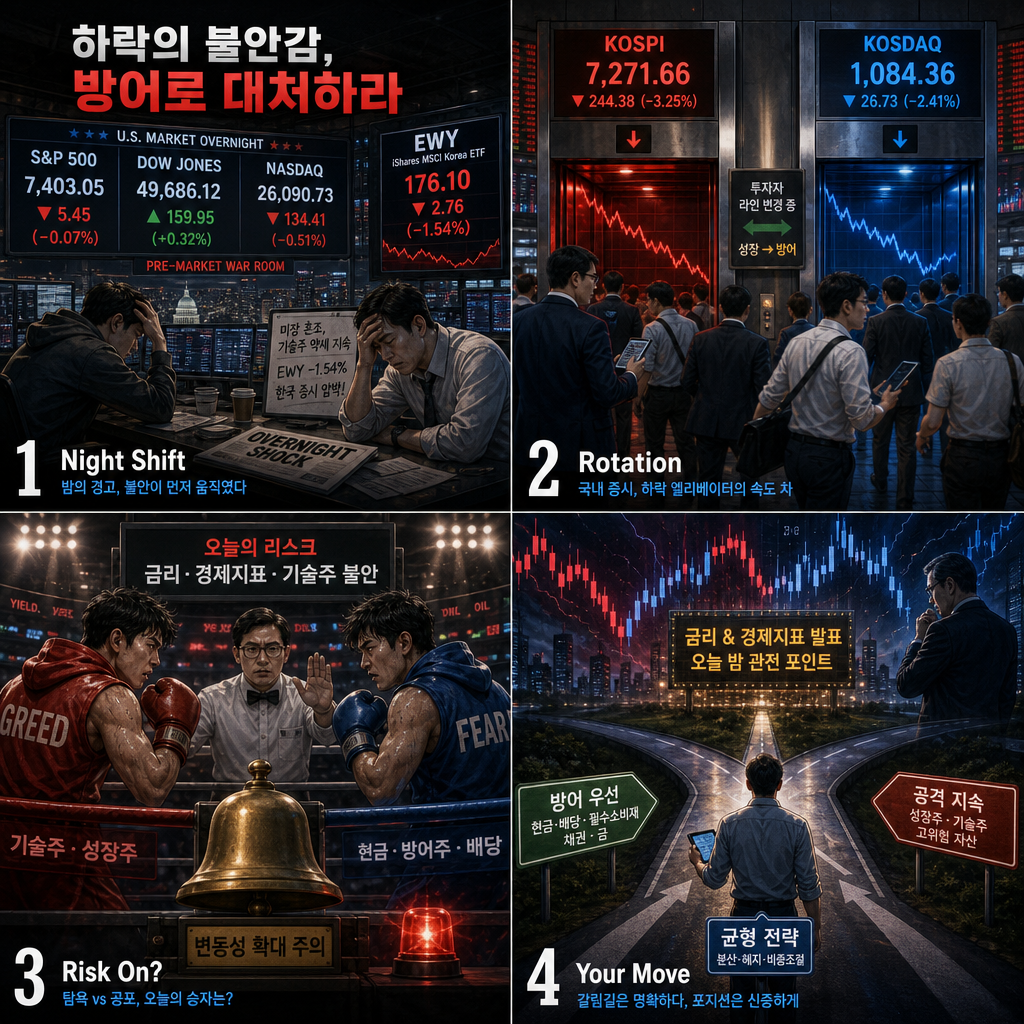
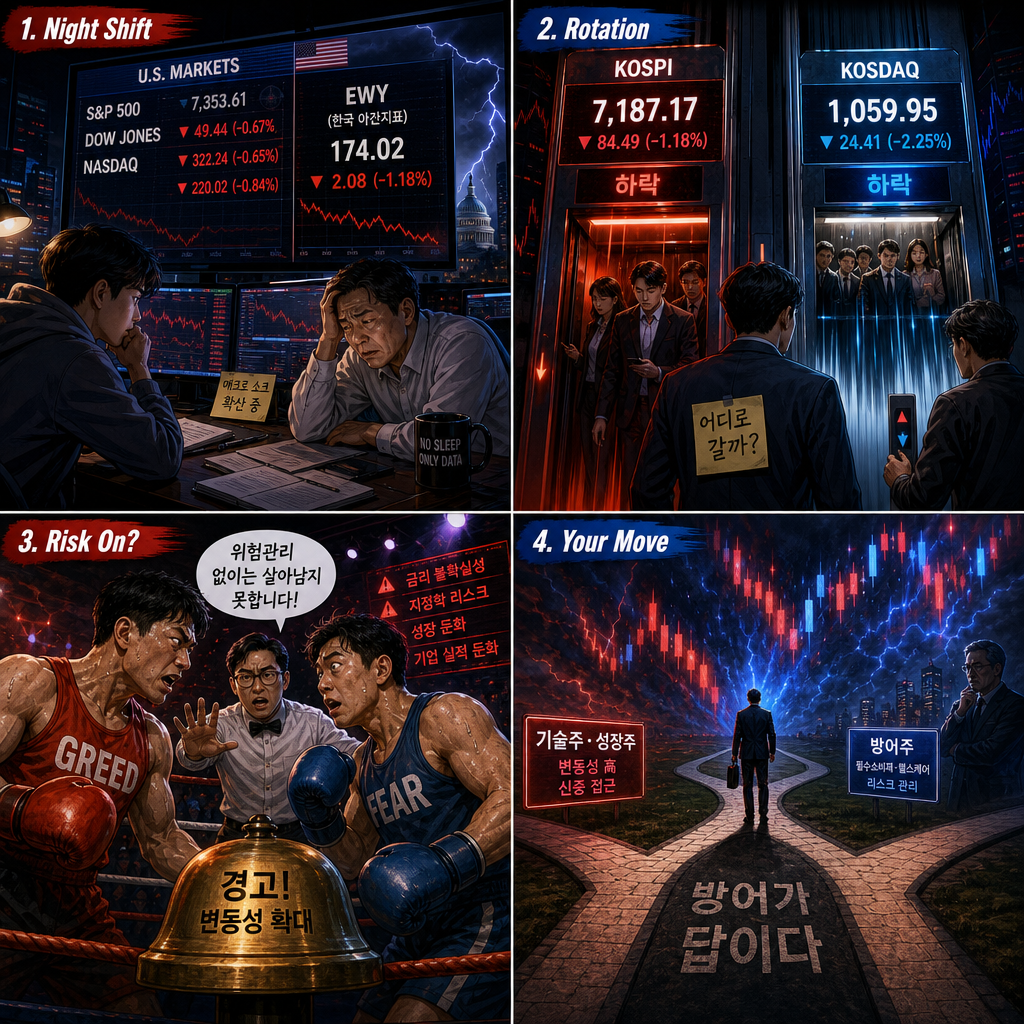
deploy: efe6f696ff8e59adfba2088b25f8cae922e5229a

diff --git a/index.html b/index.html
@@ -663,12 +663,12 @@
             <div class="hero-layout">
                 <div class="hero-copy">
                     <div class="hero-kicker">Seoul and Wall Street pulse, reframed as a daily cover story</div>
-                    <h1 class="header-title">Evening Briefing: 오늘 국장 실시간 & 미장 프리뷰</h1>
-                    <p class="header-subtitle">마지막 업데이트: 2026-05-19 17:16:07</p>
+                    <h1 class="header-title">Morning Briefing: 간밤의 미장 & 국장 프리뷰</h1>
+                    <p class="header-subtitle">마지막 업데이트: 2026-05-20 10:21:12</p>
                 </div>
                 <div class="hero-stamp">
                     <div class="hero-stamp-label">Edition Focus</div>
-                    <div class="hero-stamp-value">하락의 불안감, 방어로 대처하라</div>
+                    <div class="hero-stamp-value">하락의 연쇄, 방어가 답이다</div>
                 </div>
             </div>
         </section>
@@ -677,33 +677,33 @@
         <section class="market-grid">
             <div class="index-card">
                 <div class="index-title">KOSPI</div>
-                <div class="index-value">7,271.66</div>
-                <div class="index-badge" style="color: #3b82f6; background-color: #3b82f615;">▼ 244.38 (-3.25%)</div>
+                <div class="index-value">7,187.17</div>
+                <div class="index-badge" style="color: #3b82f6; background-color: #3b82f615;">▼ 84.49 (-1.16%)</div>
             </div>
             <div class="index-card">
                 <div class="index-title">KOSDAQ</div>
-                <div class="index-value">1,084.36</div>
-                <div class="index-badge" style="color: #3b82f6; background-color: #3b82f615;">▼ 26.73 (-2.41%)</div>
+                <div class="index-value">1,059.95</div>
+                <div class="index-badge" style="color: #3b82f6; background-color: #3b82f615;">▼ 24.41 (-2.25%)</div>
             </div>
             <div class="index-card">
                 <div class="index-title">EWY (한국ETF)</div>
-                <div class="index-value">176.10</div>
-                <div class="index-badge" style="color: #3b82f6; background-color: #3b82f615;">▼ 2.76 (-1.54%)</div>
+                <div class="index-value">174.02</div>
+                <div class="index-badge" style="color: #3b82f6; background-color: #3b82f615;">▼ 2.08 (-1.18%)</div>
             </div>
             <div class="index-card">
                 <div class="index-title">S&P 500</div>
-                <div class="index-value">7,403.05</div>
-                <div class="index-badge" style="color: #3b82f6; background-color: #3b82f615;">▼ 5.45 (-0.07%)</div>
+                <div class="index-value">7,353.61</div>
+                <div class="index-badge" style="color: #3b82f6; background-color: #3b82f615;">▼ 49.44 (-0.67%)</div>
             </div>
             <div class="index-card">
                 <div class="index-title">DOW JONES</div>
-                <div class="index-value">49,686.12</div>
-                <div class="index-badge" style="color: #ef4444; background-color: #ef444415;">▲ 159.95 (+0.32%)</div>
+                <div class="index-value">49,363.88</div>
+                <div class="index-badge" style="color: #3b82f6; background-color: #3b82f615;">▼ 322.24 (-0.65%)</div>
             </div>
             <div class="index-card">
                 <div class="index-title">NASDAQ</div>
-                <div class="index-value">26,090.73</div>
-                <div class="index-badge" style="color: #3b82f6; background-color: #3b82f615;">▼ 134.41 (-0.51%)</div>
+                <div class="index-value">25,870.71</div>
+                <div class="index-badge" style="color: #3b82f6; background-color: #3b82f615;">▼ 220.02 (-0.84%)</div>
             </div>
         </section>
 
@@ -720,31 +720,7 @@
                 
                 <article class="news-item">
                     
-                    <img src="https://imgnews.pstatic.net/image/001/2026/05/19/PYH2026051901760001300_P4_20260519101115918.jpg?type=w800" alt="코스피, 하락 출발해 7,300선에서 등락(종합)" class="news-thumb">
-                    
-                    <div class="news-body">
-                        <div class="news-meta">
-                            
-                            <span class="news-scope">Korea</span>
-                            
-                            
-                            <span>연합뉴스</span>
-                            
-                            
-                            <span>2026-05-19 10:02:22</span>
-                            
-                        </div>
-                        <a href="https://n.news.naver.com/mnews/article/001/0016085107" target="_blank" rel="noopener noreferrer" class="news-title">코스피, 하락 출발해 7,300선에서 등락(종합)</a>
-                        
-                        <div class="news-why">미국 국채금리 부담이 한국 시장에 미치는 영향을 보여줍니다.</div>
-                        
-                        <a href="https://n.news.naver.com/mnews/article/001/0016085107" target="_blank" rel="noopener noreferrer" class="news-link">원문 보기</a>
-                    </div>
-                </article>
-                
-                <article class="news-item">
-                    
-                    <img src="https://imgnews.pstatic.net/image/018/2026/05/19/0006284925_001_20260519095309521.jpg?type=w800" alt="코스피, 외인·기관 팔자에 1%대 하락…코스닥은 상승" class="news-thumb">
+                    <img src="https://imgnews.pstatic.net/image/648/2026/05/20/0000047306_001_20260520100217178.jpg?type=w800" alt="&#39;매크로 부담&#39; 속 계속 파는 외국인...코스피, 7000선 위협" class="news-thumb">
                     
                     <div class="news-body">
                         <div class="news-meta">
@@ -752,47 +728,47 @@
                             <span class="news-scope">Macro | Korea</span>
                             
                             
-                            <span>이데일리</span>
+                            <span>비즈워치</span>
                             
                             
-                            <span>2026-05-19 09:53:09</span>
+                            <span>2026-05-20 10:02:17</span>
                             
                         </div>
-                        <a href="https://n.news.naver.com/mnews/article/018/0006284925" target="_blank" rel="noopener noreferrer" class="news-title">코스피, 외인·기관 팔자에 1%대 하락…코스닥은 상승</a>
+                        <a href="https://n.news.naver.com/mnews/article/648/0000047306" target="_blank" rel="noopener noreferrer" class="news-title">'매크로 부담' 속 계속 파는 외국인...코스피, 7000선 위협</a>
                         
-                        <div class="news-why">지정학적 불안과 고유가 우려가 시장에 미치는 영향을 강조합니다.</div>
+                        <div class="news-why">외국인의 대규모 순매도가 코스피 하락을 주도하고 있어 시장의 방향성을 결정짓는 중요한 요소로 작용하고 있다.</div>
                         
-                        <a href="https://n.news.naver.com/mnews/article/018/0006284925" target="_blank" rel="noopener noreferrer" class="news-link">원문 보기</a>
+                        <a href="https://n.news.naver.com/mnews/article/648/0000047306" target="_blank" rel="noopener noreferrer" class="news-link">원문 보기</a>
                     </div>
                 </article>
                 
                 <article class="news-item">
                     
-                    <img src="https://imgnews.pstatic.net/image/016/2026/05/19/0002645216_001_20260519094916103.jpg?type=w800" alt="삼전·하닉 장초반 약세…뉴욕發 메모리 ‘피크아웃’ 논란에 발목 [종목Pick]" class="news-thumb">
+                    <img src="https://imgnews.pstatic.net/image/016/2026/05/20/0002645782_001_20260520095113403.jpg?type=w800" alt="코스피, 외국인 9000억 순매도에 7200선 밀려…장중 7000선 위협 [투자360]" class="news-thumb">
                     
                     <div class="news-body">
                         <div class="news-meta">
                             
-                            <span class="news-scope">Korea | Sector</span>
+                            <span class="news-scope">Macro | Korea | Sector</span>
                             
                             
                             <span>헤럴드경제</span>
                             
                             
-                            <span>2026-05-19 09:49:16</span>
+                            <span>2026-05-20 09:51:13</span>
                             
                         </div>
-                        <a href="https://n.news.naver.com/mnews/article/016/0002645216" target="_blank" rel="noopener noreferrer" class="news-title">삼전·하닉 장초반 약세…뉴욕發 메모리 ‘피크아웃’ 논란에 발목 [종목Pick]</a>
+                        <a href="https://n.news.naver.com/mnews/article/016/0002645782" target="_blank" rel="noopener noreferrer" class="news-title">코스피, 외국인 9000억 순매도에 7200선 밀려…장중 7000선 위협 [투자360]</a>
                         
-                        <div class="news-why">반도체 업황에 대한 우려가 한국 대형주에 미치는 영향을 보여줍니다.</div>
+                        <div class="news-why">미국 금리 상승과 외국인 매도세가 한국 시장에 미치는 영향이 크기 때문에 주목할 필요가 있다.</div>
                         
-                        <a href="https://n.news.naver.com/mnews/article/016/0002645216" target="_blank" rel="noopener noreferrer" class="news-link">원문 보기</a>
+                        <a href="https://n.news.naver.com/mnews/article/016/0002645782" target="_blank" rel="noopener noreferrer" class="news-link">원문 보기</a>
                     </div>
                 </article>
                 
                 <article class="news-item">
                     
-                    <img src="https://imgnews.pstatic.net/image/243/2026/05/19/0000098001_001_20260519094813645.jpg?type=w800" alt="일촉즉발 피했다…&#39;19일 공격 보류&#39; 트럼프 발언에 뉴욕 증시 혼조" class="news-thumb">
+                    <img src="https://imgnews.pstatic.net/image/023/2026/05/20/0003977425_001_20260520093908346.jpg?type=w800" alt="“현금 바닥나고 고금리 엄습”… 월가에서 터져 나오는 증시 ‘조정·매도’ 경고" class="news-thumb">
                     
                     <div class="news-body">
                         <div class="news-meta">
@@ -800,17 +776,41 @@
                             <span class="news-scope">Macro | US | Korea</span>
                             
                             
-                            <span>이코노미스트</span>
+                            <span>조선일보</span>
                             
                             
-                            <span>2026-05-19 09:48:13</span>
+                            <span>2026-05-20 09:39:08</span>
                             
                         </div>
-                        <a href="https://n.news.naver.com/mnews/article/243/0000098001" target="_blank" rel="noopener noreferrer" class="news-title">일촉즉발 피했다…'19일 공격 보류' 트럼프 발언에 뉴욕 증시 혼조</a>
+                        <a href="https://n.news.naver.com/mnews/article/023/0003977425" target="_blank" rel="noopener noreferrer" class="news-title">“현금 바닥나고 고금리 엄습”… 월가에서 터져 나오는 증시 ‘조정·매도’ 경고</a>
                         
-                        <div class="news-why">미국의 외교 정책 변화가 글로벌 시장에 미치는 영향을 나타냅니다.</div>
+                        <div class="news-why">글로벌 증시 조정 신호가 한국 시장에도 영향을 미칠 가능성이 높아 투자자들이 주의해야 한다.</div>
                         
-                        <a href="https://n.news.naver.com/mnews/article/243/0000098001" target="_blank" rel="noopener noreferrer" class="news-link">원문 보기</a>
+                        <a href="https://n.news.naver.com/mnews/article/023/0003977425" target="_blank" rel="noopener noreferrer" class="news-link">원문 보기</a>
+                    </div>
+                </article>
+                
+                <article class="news-item">
+                    
+                    <img src="https://imgnews.pstatic.net/image/001/2026/05/20/PYH2026052003120001300_P4_20260520101413006.jpg?type=w800" alt="코스피 변동성 지속…1%대 하락 7,100선 등락(종합)" class="news-thumb">
+                    
+                    <div class="news-body">
+                        <div class="news-meta">
+                            
+                            <span class="news-scope">Macro | Korea</span>
+                            
+                            
+                            <span>연합뉴스</span>
+                            
+                            
+                            <span>2026-05-20 10:02:16</span>
+                            
+                        </div>
+                        <a href="https://n.news.naver.com/mnews/article/001/0016087722" target="_blank" rel="noopener noreferrer" class="news-title">코스피 변동성 지속…1%대 하락 7,100선 등락(종합)</a>
+                        
+                        <div class="news-why">외국인의 지속적인 매도세가 한국 시장의 변동성을 높이고 있어 투자자들에게 중요한 정보가 된다.</div>
+                        
+                        <a href="https://n.news.naver.com/mnews/article/001/0016087722" target="_blank" rel="noopener noreferrer" class="news-link">원문 보기</a>
                     </div>
                 </article>
                 
@@ -831,7 +831,7 @@
                     <img src="cover.png" class="cover-img" alt="Market Illustration">
                     <div class="cover-overlay">
                         <div class="cover-overlay-badge">Market Signal</div>
-                        <div class="cover-overlay-headline">하락의 불안감, 방어로 대처하라</div>
+                        <div class="cover-overlay-headline">하락의 연쇄, 방어가 답이다</div>
                     </div>
                 </div>
             </section>
@@ -839,20 +839,20 @@
             <section class="summary-card">
                 <div class="summary-header">
                     <div class="summary-kicker">Topline Brief</div>
-                    <div class="summary-title">하락의 불안감, 방어로 대처하라</div>
+                    <div class="summary-title">하락의 연쇄, 방어가 답이다</div>
                 </div>
                 <div class="summary-body">
                     <ul class="summary-list">
                         
-                        <li>오늘 한국 시장은 전반적으로 부진한 흐름을 보였으며, 코스피는 <strong>3.25%</strong> 하락하여 7,271.66을 기록했고, 코스닥 또한 <strong>2.41%</strong> 하락하여 1,084.36으로 마감했습니다.</li>
+                        <li>간밤 미국 시장은 전반적으로 하락세를 보였으며, S&P500은 <strong>▼ 49.44 (-0.67%)</strong>, 다우존스는 <strong>▼ 322.24 (-0.65%)</strong>, 나스닥은 <strong>▼ 220.02 (-0.84%)</strong>로 마감했습니다.</li>
                         
-                        <li>한국 야간지표인 <strong>EWY</strong>는 <strong>1.54%</strong> 하락하며 176.10을 기록, 이는 미장 흐름과 함께 부정적인 영향을 미쳤습니다.</li>
+                        <li>한국 야간지표(EWY)도 <strong>▼ 2.08 (-1.18%)</strong> 하락하며 미국 시장의 부정적인 분위기를 반영하고 있습니다.</li>
                         
-                        <li>미국 시장에서는 S&P500이 약보합세를 보인 반면, 다우존스는 소폭 상승했으나 나스닥이 다시 하락세를 이어가, 기술주에 대한 불안감이 여전함을 시사합니다.</li>
+                        <li>오늘 아침 코스피는 <strong>7,187.17</strong>로 개장하여 <strong>▼ 84.49 (-1.16%)</strong> 하락하고, 코스닥은 <strong>1,059.95</strong>로 <strong>▼ 24.41 (-2.25%)</strong> 하락하며 전일 대비 부정적인 흐름을 이어가고 있습니다.</li>
                         
-                        <li>이러한 데이터 간의 온도차로 인해, 투자자들은 방어적인 <strong>포지션</strong>을 취하는 것이 바람직하며, 특히 기술주에 대한 노출을 줄이는 전략을 고려해야 할 것입니다.</li>
+                        <li>미국 시장의 하락과 한국 야간지표의 부진이 지속적으로 영향을 미치고 있어, 투자자들은 <strong>방어적인 포지션</strong>을 취하는 것이 바람직합니다.</li>
                         
-                        <li>오늘 밤 미국 시장에서는 경제 지표 발표와 함께, <strong>금리</strong> 관련 뉴스가 주요 관전 포인트가 될 것이며, 투자자들은 이러한 요소들이 시장에 미치는 영향을 주의 깊게 살펴봐야 합니다.</li>
+                        <li>특히, 시장의 불확실성이 커지는 가운데 <strong>기술주와 성장주</strong>에 대한 투자 신중을 기하고, 안정적인 <strong>배당주</strong>나 <strong>방어주</strong>로 자산을 분산하는 전략이 필요합니다.</li>
                         
                     </ul>
                 </div>
@@ -867,7 +867,7 @@
                     <div class="agent-flow-meta">
                         <span class="agent-flow-badge">StateGraph</span>
                         
-                        <span class="agent-total-time">총 108,161ms</span>
+                        <span class="agent-total-time">총 112,588ms</span>
                         
                     </div>
                 </div>
@@ -883,7 +883,7 @@
                         <span class="graph-node-icon">📊</span>
                         <span class="graph-node-label">시장 데이터 수집</span>
                         
-                        <span class="graph-node-time success">2889ms</span>
+                        <span class="graph-node-time success">3352ms</span>
                         
                     </div>
                 </div>
@@ -902,14 +902,14 @@
                             <span class="graph-node-icon">🤖</span>
                             <span class="graph-node-label">AI 시장 분석</span>
                             
-                            <span class="graph-node-time success">8364ms</span>
+                            <span class="graph-node-time success">5351ms</span>
                             
                         </div>
                         <div class="graph-node success">
                             <span class="graph-node-icon">📰</span>
                             <span class="graph-node-label">뉴스 수집 & 큐레이션</span>
                             
-                            <span class="graph-node-time success">233ms</span>
+                            <span class="graph-node-time success">16681ms</span>
                             
                         </div>
                     </div>
@@ -927,7 +927,7 @@
                         <span class="graph-node-icon">🎨</span>
                         <span class="graph-node-label">이미지 방향 설계</span>
                         
-                        <span class="graph-node-time success">4513ms</span>
+                        <span class="graph-node-time success">4587ms</span>
                         
                     </div>
                 </div>
@@ -941,7 +941,7 @@
                         <span class="graph-node-icon">🖼</span>
                         <span class="graph-node-label">GPT Image 생성</span>
                         
-                        <span class="graph-node-time success">92162ms</span>
+                        <span class="graph-node-time success">82617ms</span>
                         
                     </div>
                 </div>
@@ -994,8 +994,8 @@
                                 ✅ success
                             </span>
                         </td>
-                        <td><span class="exec-duration">2,889ms</span></td>
-                        <td style="color:#475569;">KOSPI 7,271.66 | KOSDAQ 1,084.36 | S&P500 7,403.05</td>
+                        <td><span class="exec-duration">3,352ms</span></td>
+                        <td style="color:#475569;">KOSPI 7,187.17 | KOSDAQ 1,059.95 | S&P500 7,353.61</td>
                     </tr>
                     
                     <tr>
@@ -1005,8 +1005,8 @@
                                 ✅ success
                             </span>
                         </td>
-                        <td><span class="exec-duration">8,364ms</span></td>
-                        <td style="color:#475569;">요약 5포인트 | 헤드라인: 하락의 불안감, 방어로 대처하라</td>
+                        <td><span class="exec-duration">5,351ms</span></td>
+                        <td style="color:#475569;">요약 5포인트 | 헤드라인: 하락의 연쇄, 방어가 답이다</td>
                     </tr>
                     
                     <tr>
@@ -1016,8 +1016,8 @@
                                 ✅ success
                             </span>
                         </td>
-                        <td><span class="exec-duration">233ms</span></td>
-                        <td style="color:#475569;">4건 선정 (기존 다이제스트 재사용)</td>
+                        <td><span class="exec-duration">16,681ms</span></td>
+                        <td style="color:#475569;">4건 선정 (스크래핑 + LLM 큐레이션)</td>
                     </tr>
                     
                     <tr>
@@ -1027,7 +1027,7 @@
                                 ✅ success
                             </span>
                         </td>
-                        <td><span class="exec-duration">4,513ms</span></td>
+                        <td><span class="exec-duration">4,587ms</span></td>
                         <td style="color:#475569;">catalyst: overnight macro shock and positioning ba</td>
                     </tr>
                     
@@ -1038,7 +1038,7 @@
                                 ✅ success
                             </span>
                         </td>
-                        <td><span class="exec-duration">92,162ms</span></td>
+                        <td><span class="exec-duration">82,617ms</span></td>
                         <td style="color:#475569;">gpt-image-2 1024×1024 커버 이미지 저장 완료</td>
                     </tr>
                     
